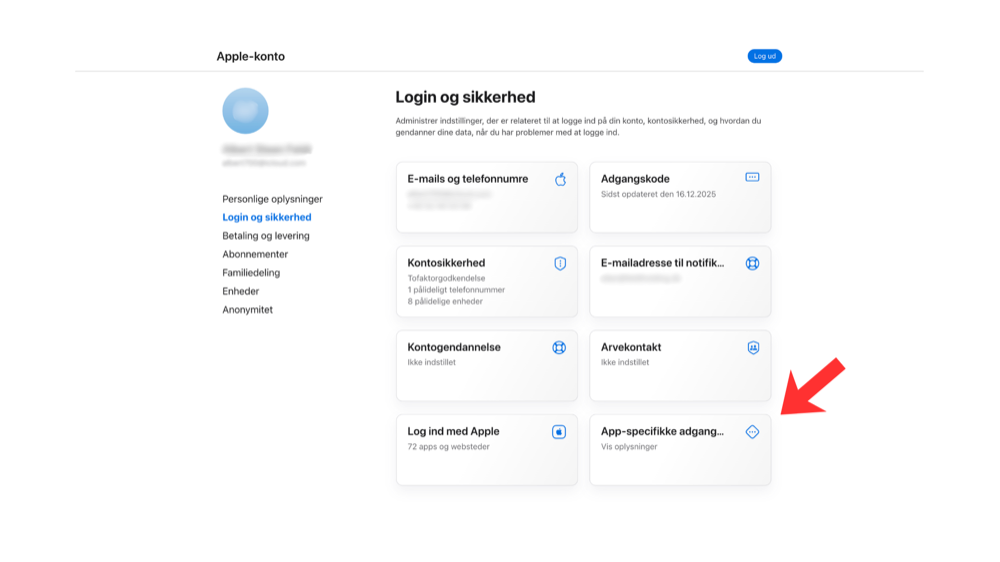
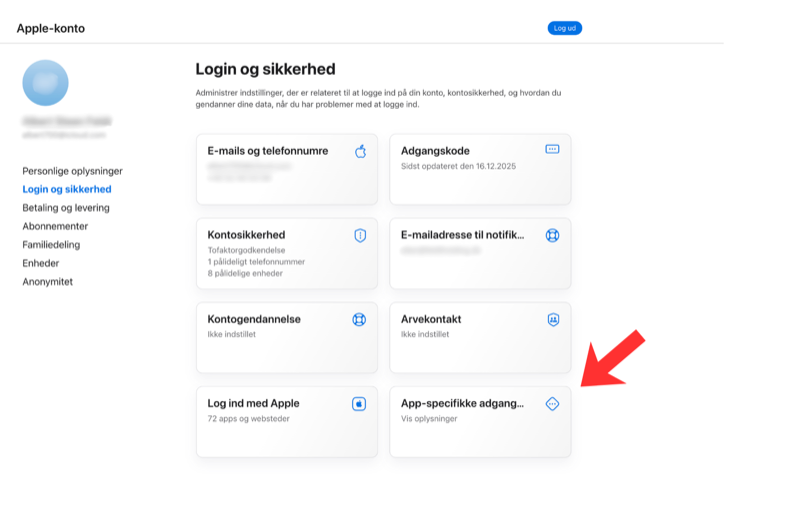
fix(icloud): right-size setup-guide screenshots
The original 1920x1080 source images had huge whitespace around the
relevant content (Apple's web app is mostly background); rendered at
100% width with aspectRatio 16:9 the visible content shrank to a tiny
sliver in the corner.

- Cropped each image to just its content: dialog modals (~1.1:1) for
  steps 3/4, the cards section of the Login og sikkerhed page (~1.6:1)
  for step 2. File sizes now ~37-90KB.
- Replaced aspectRatio: 16/9 with a fixed height: 200, so all three
  render at consistent visual size. resizeMode="contain" letterboxes
  the narrower dialog images; backgroundColor matches Apple's modal
  scrim so the letterboxing reads as part of the screenshot.

diff --git a/src/screens/IcloudSetupScreen.tsx b/src/screens/IcloudSetupScreen.tsx
@@ -283,11 +283,14 @@ const styles = StyleSheet.create({
   primaryBtnText: {
     fontFamily: fonts.uiSemi, fontSize: 14, color: colors.paper,
   },
-  // Apple-ID flow screenshots — capped aspect ratio so all three render at the
-  // same height regardless of crop. resizeMode="contain" letterboxes if needed.
+  // Apple-ID flow screenshots — fixed height so all three render at the same
+  // visual size regardless of source aspect (the find-page crop is ~1.6:1,
+  // the dialog crops are ~1.1:1). resizeMode="contain" letterboxes the
+  // narrower ones; backgroundColor matches Apple's modal scrim so the
+  // letterboxing is visually invisible.
   screenshot: {
     width: '100%',
-    aspectRatio: 16 / 9,
+    height: 200,
     borderRadius: 8,
     backgroundColor: colors.mist,
   },
